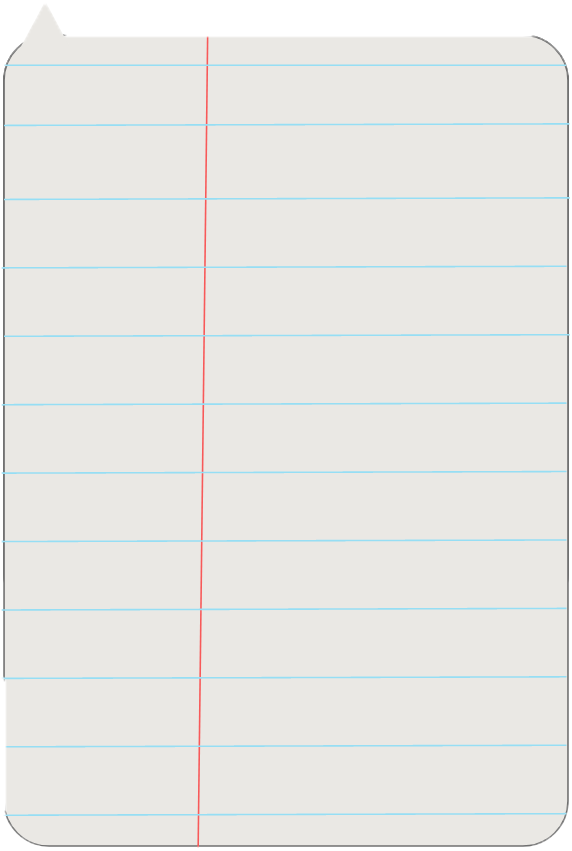
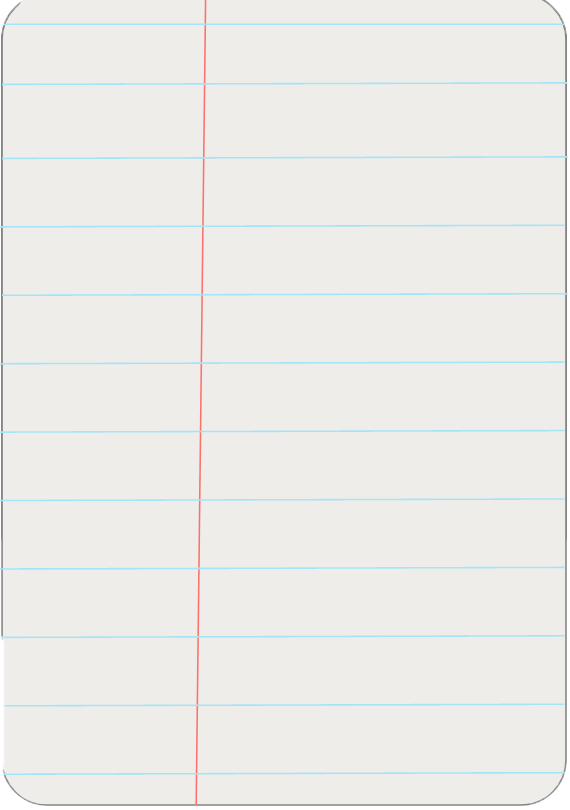
redesign favorite page

diff --git a/miniprojectdic/lib/favorite.dart b/miniprojectdic/lib/favorite.dart
@@ -10,103 +10,167 @@ class _FavoriteState extends State<Favorite> {
   @override
   Widget build(BuildContext context) {
     return Scaffold(
+      backgroundColor: Color.fromRGBO(216, 236, 228, 5),
       appBar: AppBar(
+        title: Center(
+          child: Text(
+            'HISTORY',
+            style: TextStyle(color: Colors.black, fontSize: 25),
+          ),
+        ),
         elevation: 0,
-        backgroundColor: Colors.white,
+        backgroundColor: Color.fromRGBO(230, 236, 228, 50),
       ),
-      body: SingleChildScrollView(
-        child: Container(
-          child: Column(
-            children: [
-              Row(
-                children: [
-                  Padding(
-                    padding:
-                        const EdgeInsets.only(top: 50, left: 40, bottom: 20),
-                    child: Text(
-                      'Favorite',
-                      style:
-                          TextStyle(fontSize: 30, fontWeight: FontWeight.bold),
+      body: Column(
+        children: [
+          Stack(
+            children: <Widget>[
+              Padding(
+                padding: const EdgeInsets.only(left: 22, top: 30),
+                child: DecoratedBox(
+                  decoration: BoxDecoration(
+                    image: DecorationImage(
+                      image: AssetImage("asset/images/bg3.png"),
+                      fit: BoxFit.fill,
                     ),
                   ),
-                  Padding(
-                    padding: const EdgeInsets.only(top: 40, left: 210),
-                    child: FlatButton(
-                      onPressed: () {},
-                      child: Icon(
-                        Icons.delete,
-                        size: 20,
-                        color: Colors.white,
-                      ),
-                      color: Colors.blue[400],
-                      shape: CircleBorder(
-                        side: BorderSide(
-                          color: Colors.blue[400],
+                  child: Container(
+                    height: 580,
+                    width: 420,
+                    child: Padding(
+                      padding: const EdgeInsets.only(top: 20),
+                      child: SingleChildScrollView(
+                        child: Column(
+                          children: [
+                            Row(
+                              //Row ของคอลัมตัวอักษรอังกฤษกับไทย
+                              children: [
+                                Row(
+                                  //คอลัมอังกฤษ
+                                  children: [
+                                    SizedBox(
+                                      width: 50,
+                                      height: 50,
+                                    ),
+                                    Container(
+                                      height: 30,
+                                      width: 80,
+                                      child: ListView(
+                                        scrollDirection: Axis.horizontal,
+                                        children: [
+                                          Container(
+                                            child: Text(
+                                              'apple melmon',
+                                              style: TextStyle(
+                                                fontSize: 20,
+                                              ),
+                                            ),
+                                          ),
+                                        ],
+                                      ),
+                                    ),
+                                  ],
+                                ),
+                                Row(
+                                  //คอลัมไทย
+                                  children: [
+                                    SizedBox(
+                                      width: 50,
+                                      height: 50,
+                                    ),
+                                    Container(
+                                      height: 29,
+                                      width: 200,
+                                      child: ListView(
+                                        scrollDirection: Axis.horizontal,
+                                        children: [
+                                          Container(
+                                            child: Text(
+                                              'แอปเปิ้ล มะนาว กล้วย ส้ม',
+                                              style: TextStyle(
+                                                fontSize: 20,
+                                              ),
+                                            ),
+                                          ),
+                                        ],
+                                      ),
+                                    ),
+                                  ],
+                                ),
+                              ],
+                            ),
+                            Row(
+                              //Row ของคอลัมตัวอักษรอังกฤษกับไทย
+                              children: [
+                                Row(
+                                  //คอลัมอังกฤษ
+                                  children: [
+                                    SizedBox(
+                                      width: 50,
+                                      height: 50,
+                                    ),
+                                    Container(
+                                      height: 30,
+                                      width: 80,
+                                      child: ListView(
+                                        scrollDirection: Axis.horizontal,
+                                        children: [
+                                          Container(
+                                            child: Text(
+                                              'apple melmon',
+                                              style: TextStyle(
+                                                fontSize: 20,
+                                              ),
+                                            ),
+                                          ),
+                                        ],
+                                      ),
+                                    ),
+                                  ],
+                                ),
+                                Row(
+                                  //คอลัมไทย
+                                  children: [
+                                    SizedBox(
+                                      width: 50,
+                                      height: 50,
+                                    ),
+                                    Container(
+                                      height: 29,
+                                      width: 200,
+                                      child: ListView(
+                                        scrollDirection: Axis.horizontal,
+                                        children: [
+                                          Container(
+                                            child: Text(
+                                              'แอปเปิ้ล มะนาว กล้วย ส้ม',
+                                              style: TextStyle(
+                                                fontSize: 20,
+                                              ),
+                                            ),
+                                          ),
+                                        ],
+                                      ),
+                                    ),
+                                  ],
+                                ),
+                              ],
+                            ),
+                          ],
                         ),
                       ),
                     ),
-                  )
-                ],
-              ),
-              Padding(
-                padding: const EdgeInsets.only(left: 0),
-                child: Column(
-                  children: [
-                    Container(
-                        height: 100,
-                        width: 400,
-                        margin: EdgeInsets.all(15),
-                        decoration: BoxDecoration(
-                          color: Colors.blue[50],
-                          borderRadius: BorderRadius.circular(5),
-                        ),
-                        child: Row(
-                          children: [
-                            Spacer(),
-                            Column(
-                              children: [
-                                Padding(
-                                  padding: const EdgeInsets.only(
-                                      right: 205, top: 15, bottom: 20),
-                                  child: Text(
-                                    'abandon',
-                                    style: TextStyle(
-                                        fontWeight: FontWeight.bold,
-                                        fontSize: 20,
-                                        color: Colors.lightBlue),
-                                  ),
-                                ),
-                                Text(
-                                    '[VT]ทิ้ง, ทอดทิ้ง, ละทิ้ง, ทิ้งขว้าง, ผละ, จากไป')
-                              ],
-                            ),
-                            Spacer(
-                              flex: 2,
-                            ),
-                            GestureDetector(
-                              child: Icon(
-                                  isSaved ? Icons.star : Icons.star_border,
-                                  color: isSaved ? Colors.yellow[800] : null),
-                              onTap: () {
-                                setState(() {
-                                  if (isSaved == false) {
-                                    isSaved = true;
-                                  } else {
-                                    isSaved = false;
-                                  }
-                                });
-                              },
-                            ),
-                            Spacer(),
-                          ],
-                        )),
-                        
-                  ],
+                    // Image.asset(
+                    //   'asset/images/bg3.png',
+                    //   height: 700,
+                    //   width: 400,
+                    // ),
+                  ),
                 ),
               ),
             ],
           ),
-        ),
+        ],
       ),
     );
   }
